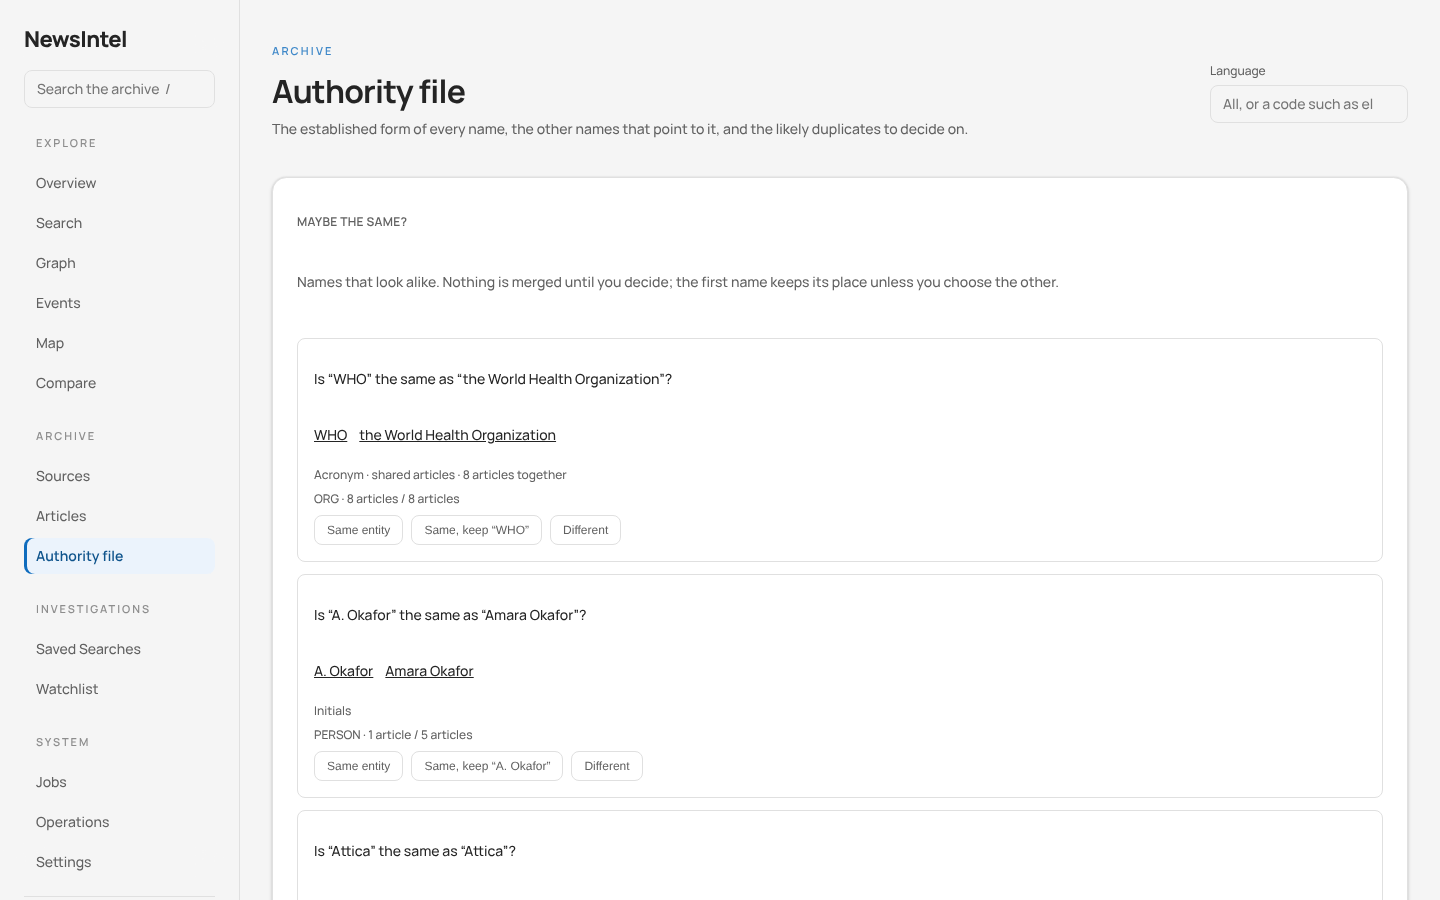
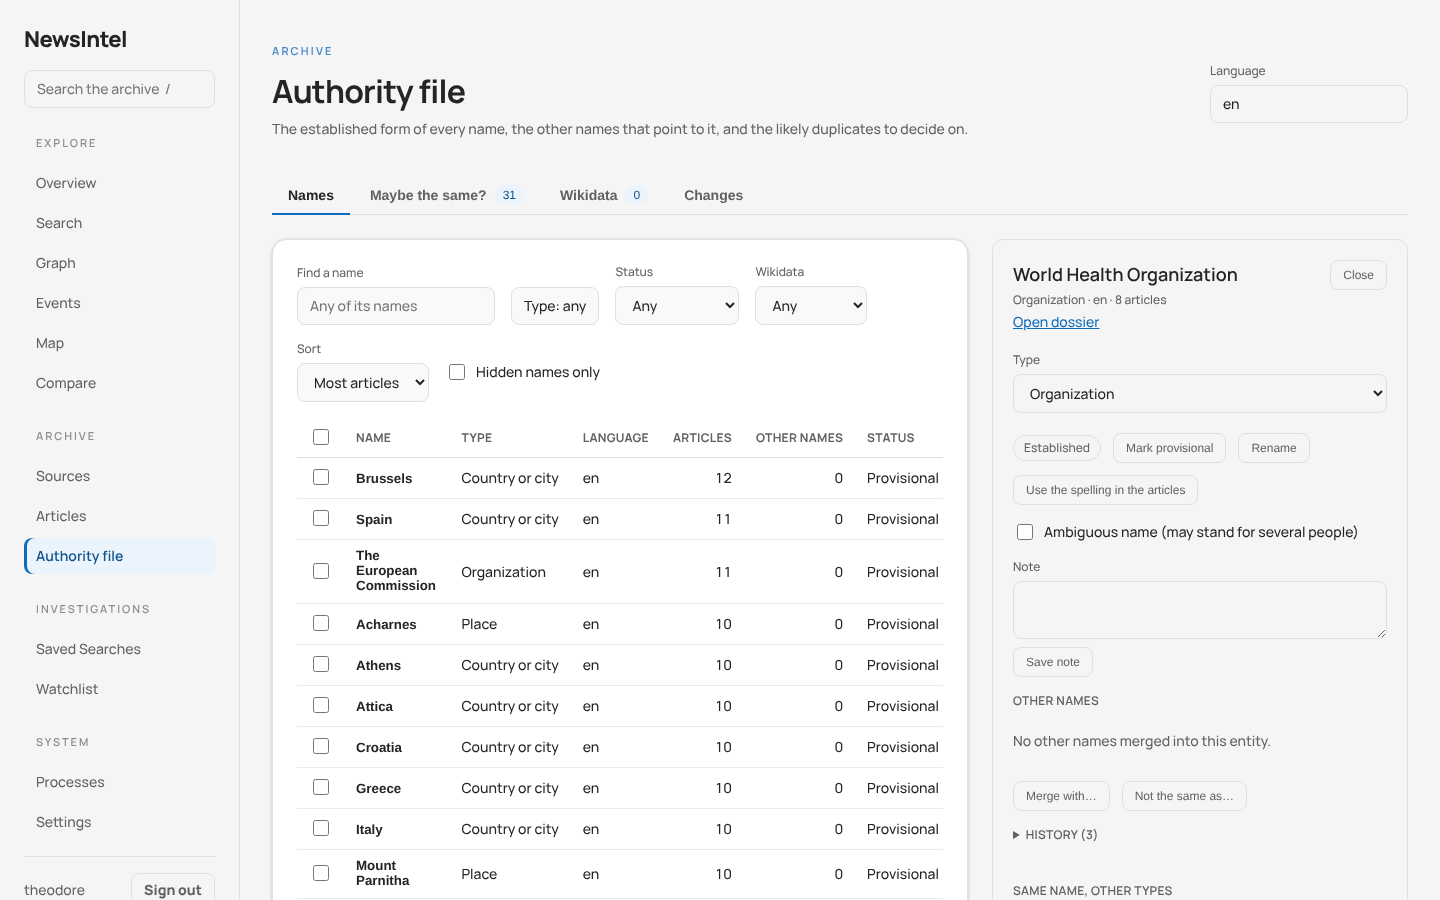
docs(readme): new screenshots of the Authority file table and the side panel; table cells stay on one line
ci-run: full
Claude-Session: https://claude.ai/code/session_01C9zcCwdefRuDCAcCcs4Fhj

diff --git a/frontend/src/app/authorities/page.tsx b/frontend/src/app/authorities/page.tsx
@@ -27,7 +27,7 @@ type Root = AuthorityRootPage['items'][number]
 const plural = (count: number, word: string, many = `${word}s`) => `${count} ${count === 1 ? word : many}`
 const failure = (error: unknown, fallback: string) => error instanceof ApiError ? error.message : fallback
 const sectionTitle = 'text-xs font-semibold uppercase tracking-wide text-muted-foreground'
-const cellClass = 'px-3 py-2 align-middle'
+const cellClass = 'whitespace-nowrap px-3 py-2 align-middle'
 
 function EntityLink({ id, name }: { id: string | null; name: string | null }) {
   if (!id || !name) return <span>{name ?? 'Unknown entity'}</span>
@@ -328,7 +328,7 @@ function AuthorityTable({ view, onOpen }: { view: AuthoritiesView; onOpen(id: st
                   <td className={cellClass}>
                     <input type="checkbox" className="h-4 w-4 accent-primary" aria-label={`Select ${item.display_name}`} checked={chosen.has(item.id)} onChange={event => toggle(item, event.target.checked)} />
                   </td>
-                  <td className={cellClass}>
+                  <td className={cn(cellClass, 'whitespace-normal')}>
                     <button type="button" className="border-0 bg-transparent p-0 text-left font-semibold text-foreground hover:text-primary" onClick={() => onOpen(item.id)}>{item.display_name}</button>
                     {item.hidden && <span className={cn(chipClass, 'ml-2')}>Hidden</span>}
                   </td>
@@ -468,7 +468,7 @@ function AuthoritiesContent() {
           </button>
         ))}
       </div>
-      <div className={cn('grid items-start gap-6', view.entity && 'xl:grid-cols-[minmax(0,1fr)_28rem]')}>
+      <div className={cn('grid items-start gap-6', view.entity && 'xl:grid-cols-[minmax(0,1fr)_26rem]')}>
         <div role="tabpanel" aria-label={TAB_LABELS[view.tab]} className="min-w-0">
           {view.tab === 'names' && <NamesTab view={view} go={go} />}
           {view.tab === 'suggestions' && <SuggestionQueue language={view.language.trim()} />}
